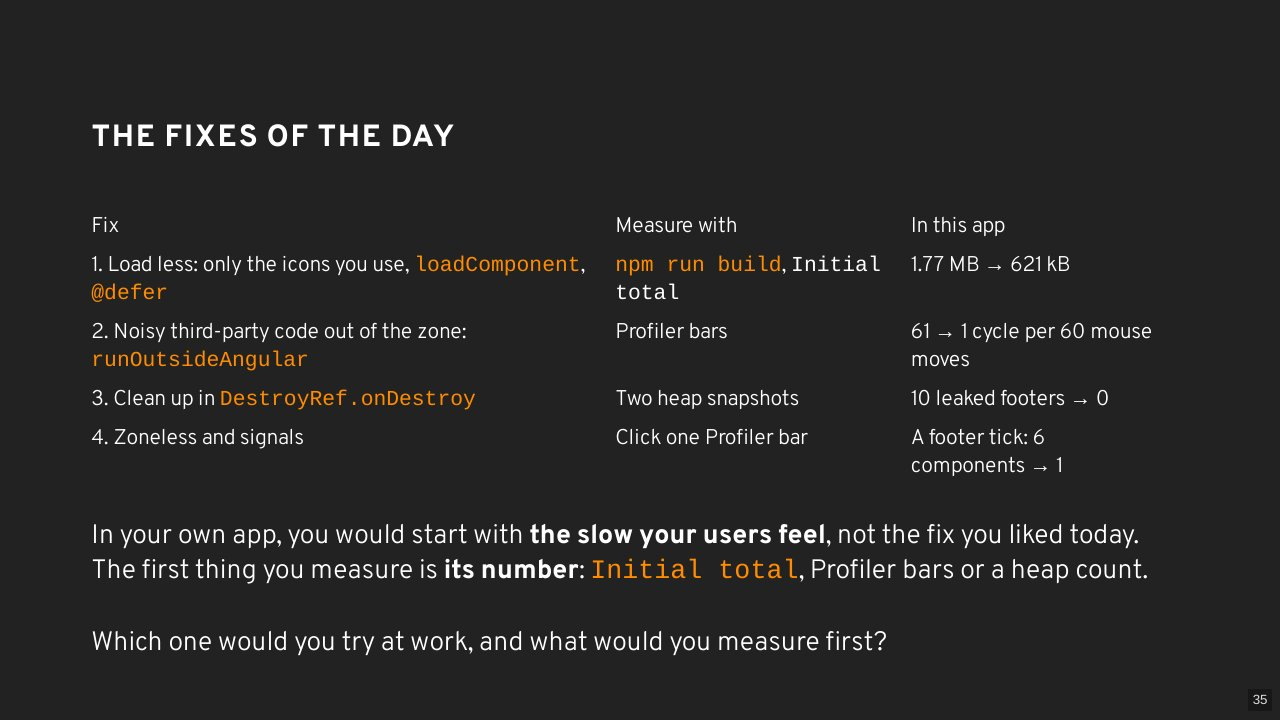
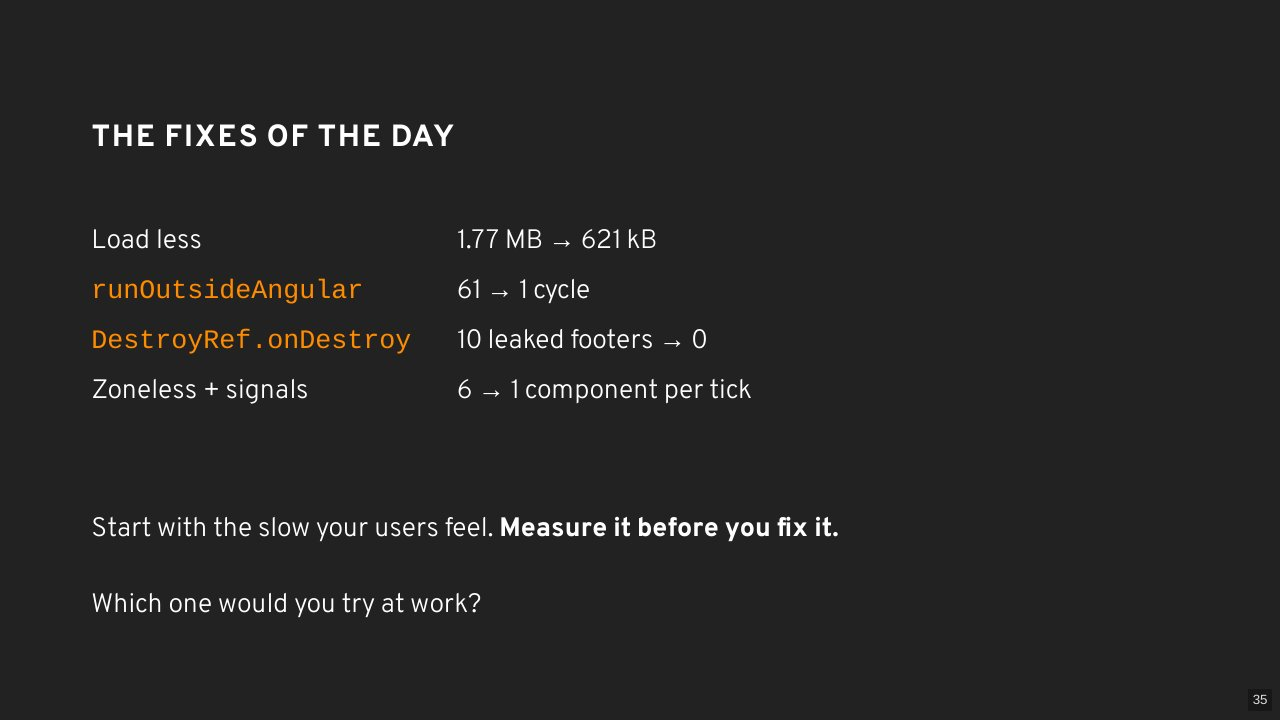
Trim the wrap slide

diff --git a/README.md b/README.md
@@ -678,15 +678,15 @@ Rendered from the uncommitted lift on the `performance` worktree. 36 visible sli
 <details><summary>Speaker notes</summary>
 
 > Four fixes, in the order they paid off in THIS app. Yours will differ: measure.
-> The Monday sentence is on the slide: read it out.
+> Read the Monday line out.
 > Click: the question to the room.
 >
 > Here's the day on one slide, in the order they paid off in our app.
-> One: load less. Our first download was 1.77 megabytes, and the biggest part wasn't the map, it was an icon library we registered in full. Only the icons we use, a lazy route and two defer blocks, and the initial total was 621 kilobytes. Every user pays that on every load, so it goes first.
-> Two: the map's mouse events ran change detection for the whole app. 60 mouse moves, 61 cycles. One runOutsideAngular, and it was 1.
-> Three: every visit left a footer and a map behind. After five rounds that was 10 footers and 14,000 detached nodes. Two onDestroy callbacks, and it was 0. Small per visit, but it grows for as long as the tab is open.
-> Four: zoneless and signals. Here the honest number is smaller: when the footer ticks, Angular refreshes the footer instead of all six components. A click in the list still refreshes everything once. It pays more the bigger your component tree is.
-> So on Monday, and it's on the slide. In your own app, you would start with the kind of slow your users complain about, not with the fix you liked best today. The first thing you measure is that kind's number, the middle column: Initial total from the build, bars in the Profiler, or instances across two heap snapshots. Write it down, change one thing, measure again.
+> One: load less. Our first download was 1.77 megabytes, and the biggest part wasn't the map, it was an icon library we registered in full. Only the icons we use, a lazy route with loadComponent and two defer blocks, and Initial total in the build output was 621 kilobytes. Every user pays that on every load, so it goes first.
+> Two: the map's mouse events ran change detection for the whole app. 60 mouse moves, 61 Profiler bars. One runOutsideAngular, and it was 1.
+> Three: every visit left a footer and a map behind. After five rounds that was 10 footers and 14,000 detached nodes in the heap snapshot. Two onDestroy callbacks, and it was 0. Small per visit, but it grows for as long as the tab is open.
+> Four: zoneless and signals. Here the honest number is smaller: when the footer ticks, the Profiler shows Angular refreshing the footer instead of all six components. A click in the list still refreshes everything once. It pays more the bigger your component tree is.
+> So on Monday: in your own app, start with the kind of slow your users complain about, not with the fix you liked best today. Measure that first: Initial total from the build, bars in the Profiler, or instances across two heap snapshots. Write the number down, change one thing, measure again.
 > Click. Ask the room: which one would you try at work, and what would you measure first? Let two or three people answer.
 
 </details>
